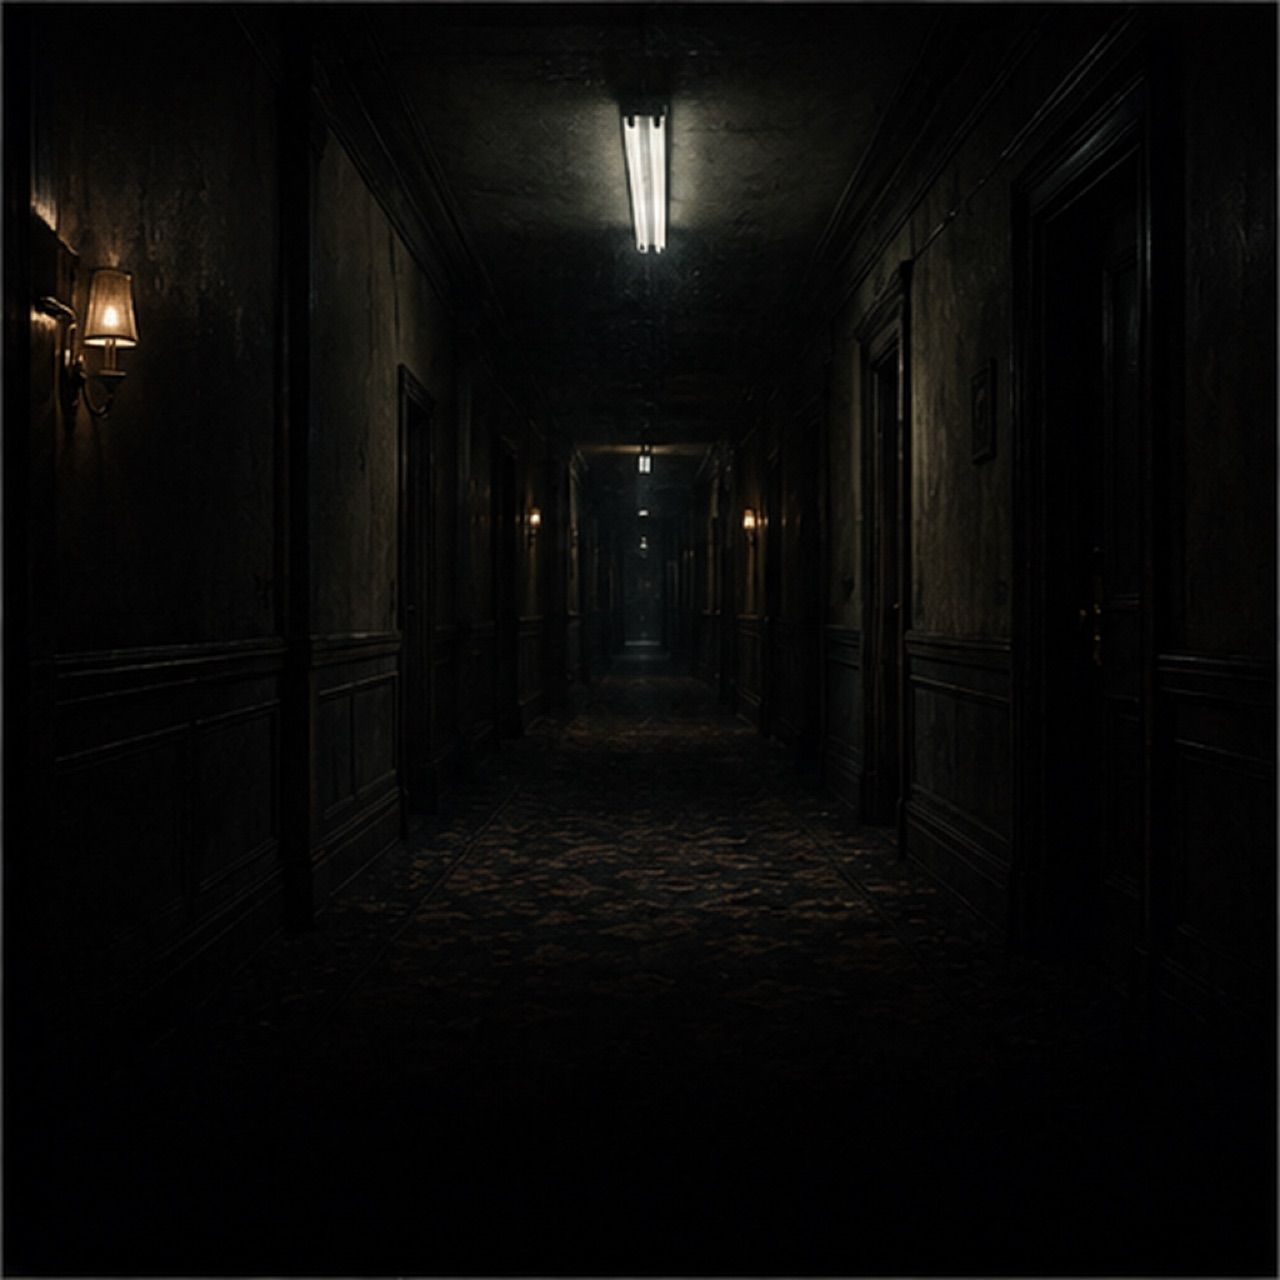
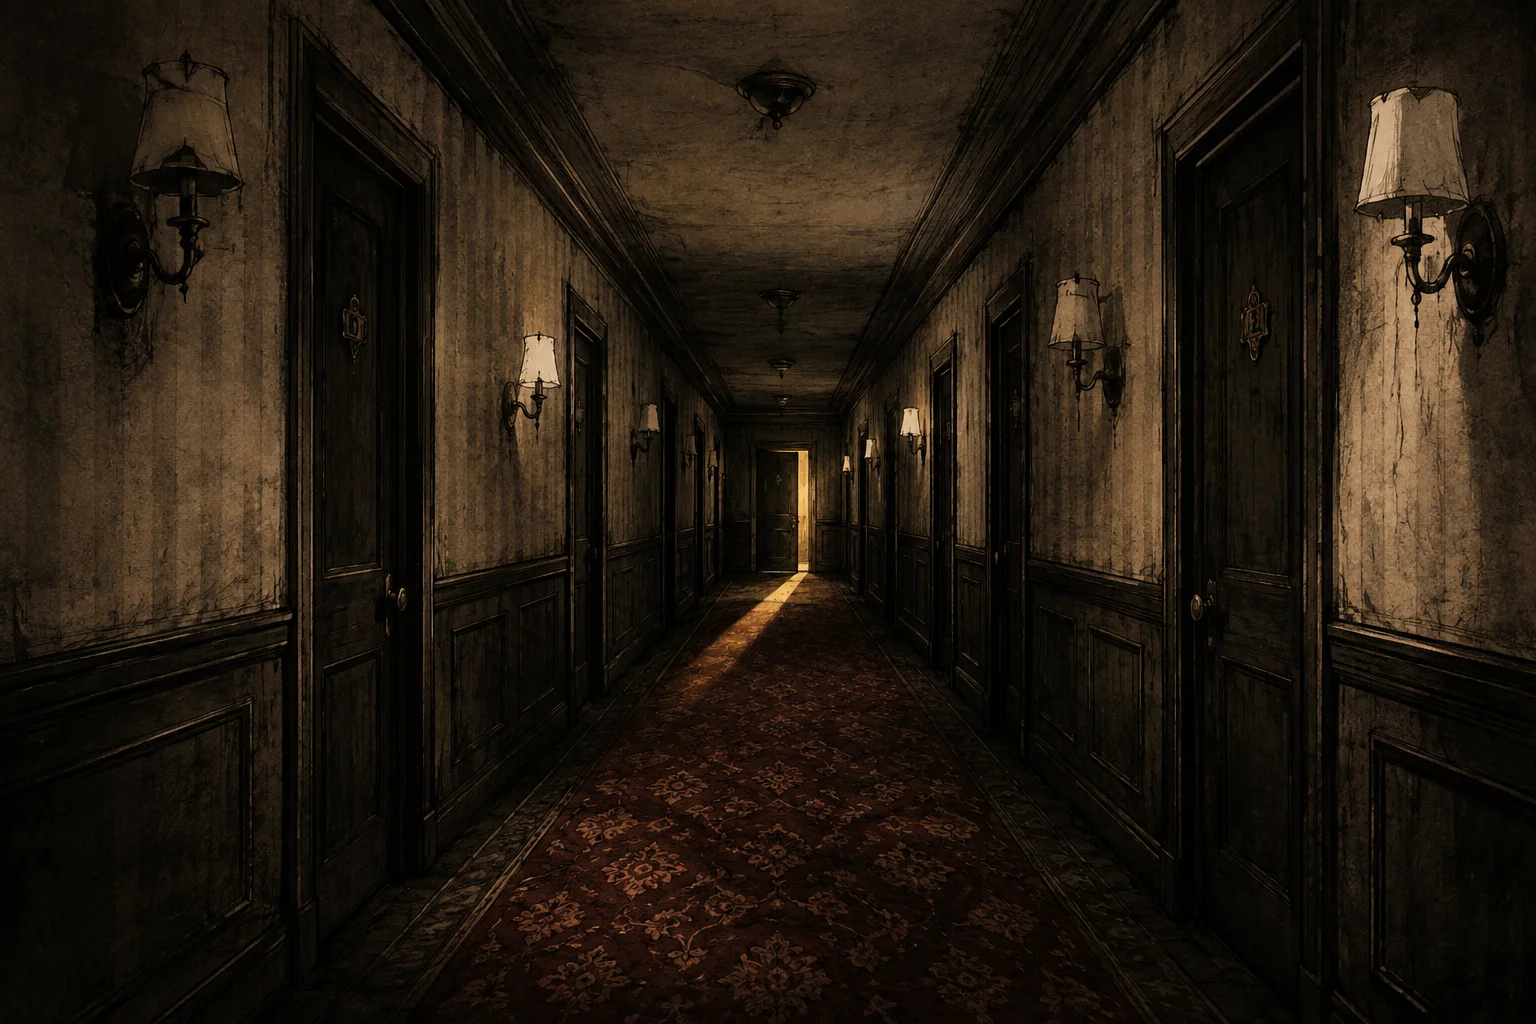
[FEAT] 인트로·아웃트로 패널 12장 — 호텔 더스크 스타일로 전면 교체
레퍼런스: 호텔 더스크의 비밀(로토스코프 연필 스케치) × 셜록 홈즈 사건수첩.
정본 프롬프트는 docs/content/인트로-패널-생성-프롬프트.md.

- 인트로 5장(호텔 외관·복도·발견·다섯 그림자·사건 파일)
- 검거 4장(무너진 어깨·수갑·연행·불이 꺼진다)
- 미제 3장(서명 없는 조서·편철·각자의 밤) — 이번에 판 m0~m2 전용 슬롯에 처음 들어간다.
  예전엔 미제 엔딩이 수갑 그림을 재활용했다.

하드 제약 전부 지켰다: 이미지 안 글자 0 (서류는 뭉갠 흔적만) · 알아볼 얼굴 0
(실루엣·손·그림자만 — 시드마다 인물이 바뀐다) · 시신 0 · 1960년대 · 세로 중앙 띠 구도.
전 장 1536×1024 → webp 85% (173~432KB).

생성 경로: 1장은 OpenAI API(비용 절제로 중단), 11장은 ChatGPT 세션에서 생성 후
페이지 안 canvas→webp 변환→blob 다운로드로 회수. 서명 URL 과 base64 가
대화 컨텍스트를 거치지 않도록 dev 서버에 `/__save` 반입구도 팠다(vite.config.ts,
DEV 전용·경로 화이트리스트). 같은 그림을 두 번 집는 사고가 한 번 있었고
(md5 중복 검사로 발견), 메시지 순서 기준으로 다시 집어 바로잡았다 — 12장 전부 고유 확인.

scripts/gen-panels.mjs — API 재생성용 스크립트(문서와 같은 프롬프트). 지금은 안 쓴다.

diff --git a/vite.config.ts b/vite.config.ts
@@ -30,7 +30,33 @@ function pagesFunctions(): Plugin {
   return {
     name: 'pages-functions-dev',
     configureServer(server: ViteDevServer) {
+      /**
+       * DEV 전용 에셋 반입구 — **브라우저 페이지가 파일을 직접 밀어 넣는다.**
+       * ChatGPT 세션에서 생성한 패널을 받을 때, 서명 URL 도 base64 도 대화 컨텍스트를
+       * 거치지 않고 페이지 → 이 서버로 바로 온다. 프로덕션 빌드에는 존재하지 않는다.
+       * 경로는 intro/·outro/ 아래 단순 파일명만 허용한다.
+       */
       server.middlewares.use(async (req, res, next) => {
+        const sv = /^\/__save\?name=((?:intro|outro)\/[a-z0-9_.-]+\.(?:webp|png|jpg))$/.exec(req.url ?? '')
+        if (sv && req.method === 'POST') {
+          res.setHeader('Access-Control-Allow-Origin', '*')
+          const chunks: Buffer[] = []
+          for await (const c of req) chunks.push(c as Buffer)
+          const body = Buffer.concat(chunks).toString()
+          const b64 = body.replace(/^data:[^,]+,/, '')
+          const bin = Buffer.from(b64, 'base64')
+          if (bin.length < 10_000) { res.statusCode = 400; return res.end('too small') }
+          const { writeFileSync } = await import('node:fs')
+          writeFileSync(resolve(__dirname, 'public', sv[1]!), bin)
+          console.log(`[__save] public/${sv[1]} (${Math.round(bin.length / 1024)}KB)`)
+          return res.end('ok')
+        }
+        if (req.method === 'OPTIONS' && (req.url ?? '').startsWith('/__save')) {
+          res.setHeader('Access-Control-Allow-Origin', '*')
+          res.setHeader('Access-Control-Allow-Methods', 'POST')
+          res.setHeader('Access-Control-Allow-Headers', '*')
+          return res.end()
+        }
         const m = /^\/api\/([a-z]+)/.exec(req.url ?? '')
         if (!m) return next()
         try {
